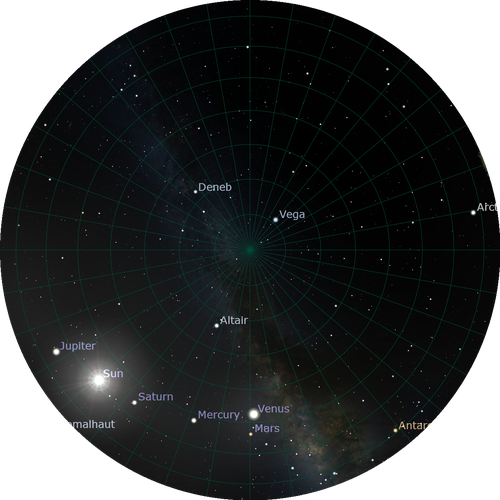
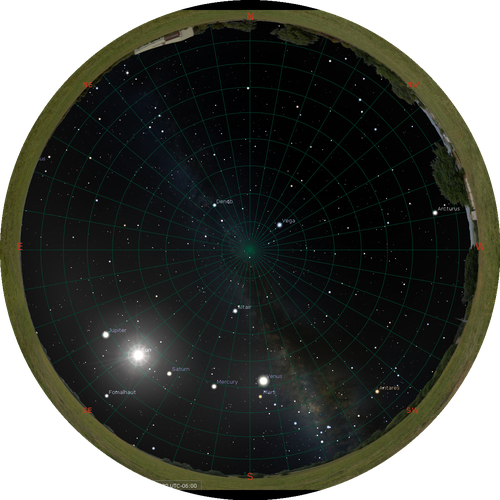
finished integrating image processing and GUI for two_dim_sweep mode

diff --git a/GUI_display_results.py b/GUI_display_results.py
@@ -17,21 +17,22 @@ def clear_folder(folder_path):
 
 def create_gif():
     # clear the Results folder
-    clear_folder('C:\\Users\\jojok\\PycharmProjects\\pythonProject\\HLT\\Heatmaps\\Results')
+    clear_folder('C:\\Users\\jojok\\PycharmProjects\\pythonProject\\HLT\\Results')
 
     # get overlay image paths from Overlays
-    overlay_files = glob.glob('C:\\Users\\jojok\\PycharmProjects\\pythonProject\\HLT\\Heatmaps\\Overlays*')
-    # make sure they are in numerical order
+    overlay_files = glob.glob('C:\\Users\\jojok\\PycharmProjects\\pythonProject\\HLT\\Overlays\\*')
+
+    # make sure the overlay files are in numerical order
     overlay_files.sort(key=lambda f: int(''.join(filter(str.isdigit, f))))
 
-    picture_dir = 'Results'
     images = []
-    for file_name in overlay_files:
-        if file_name.endswith('.png'):
-            file_path = os.path.join(picture_dir, file_name)
-            images.append(imageio.imread(file_path))
+    for file_path in overlay_files:
+        images.append(imageio.imread(file_path))
+    # doesnt really matter since we'll adjust the timing in the tkinter display
     kargs = {'duration': 2}
-    imageio.mimsave('Results\\movie.gif', images, **kargs)
+
+    # save the gif in the Results folder
+    imageio.mimsave('Results\\Results.gif', images, **kargs)
 
 
 def main(duration):
@@ -45,7 +46,7 @@ def main(duration):
 
     for i in range(0, frame_number):
         index = 'gif -index {}'.format(i)
-        frame = PhotoImage(file='Results\\movie.gif', format=index)
+        frame = PhotoImage(file='Results\\Results.gif', format=index)
         frame_list.append(frame)
 
     ctypes.windll.shcore.SetProcessDpiAwareness(3)
@@ -76,5 +77,3 @@ def main(duration):
     root.resizable(False, False)
     root.mainloop()
 
-
-#main(1)

diff --git a/test.py b/test.py
@@ -85,3 +85,14 @@ for i in range(0, num_scans):
     image_overlay.image_overlay(heatmap_files[i], cropped_files[i], heatmap_size, str(i))'''
 
 GUI_display_results.create_gif()
+GUI_display_results.main(1)
+
+
+'''picture_dir = 'Results'
+    images = []
+    for file_name in overlay_files:
+        if file_name.endswith('.png'):
+            file_path = os.path.join(picture_dir, file_name)
+            images.append(imageio.imread(file_path))
+    kargs = {'duration': 2}
+    imageio.mimsave('Results\\movie.gif', images, **kargs)'''

diff --git a/GUI_two_dim_sweep.py b/GUI_two_dim_sweep.py
@@ -109,6 +109,8 @@ def image_gui_integration(hr_duration, num_scans):
     this function integrates the image processing and GUI subsystems
 
     """
+
+    num_scans = int(num_scans)
     # call the time tracker function to start taking Stellarium screenshots
     stellarium_screenshots.time_tracker(hr_duration)
 
@@ -143,6 +145,7 @@ def image_gui_integration(hr_duration, num_scans):
 
     # create a gif
     GUI_display_results.create_gif()
+    GUI_display_results.main(hr_duration)
 
 
 def reset_selection(two_sel_window):

diff --git a/stellarium_screenshots.py b/stellarium_screenshots.py
@@ -95,7 +95,7 @@ def time_tracker(hr_duration):
 
     # currently takes a screenshot every 10 seconds
     for i in range(0, int(num_screenshots)):
-        print(i)
+        print("screenshot:", i)
         # time.sleep(840)
         time.sleep(10)
         stellarium_current_time(url)
